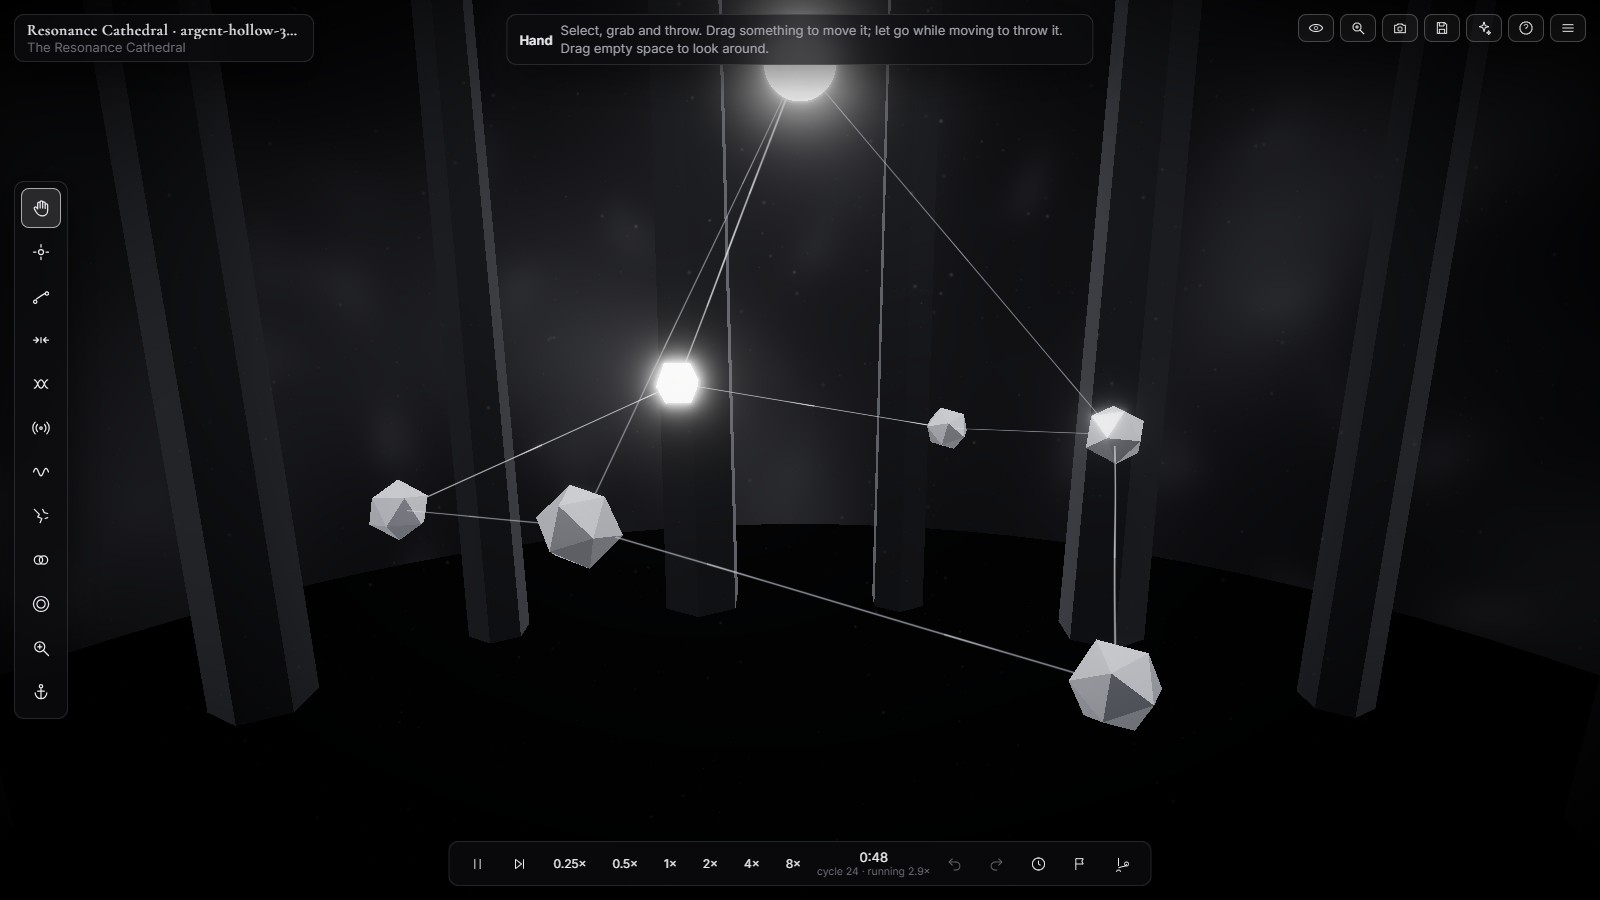
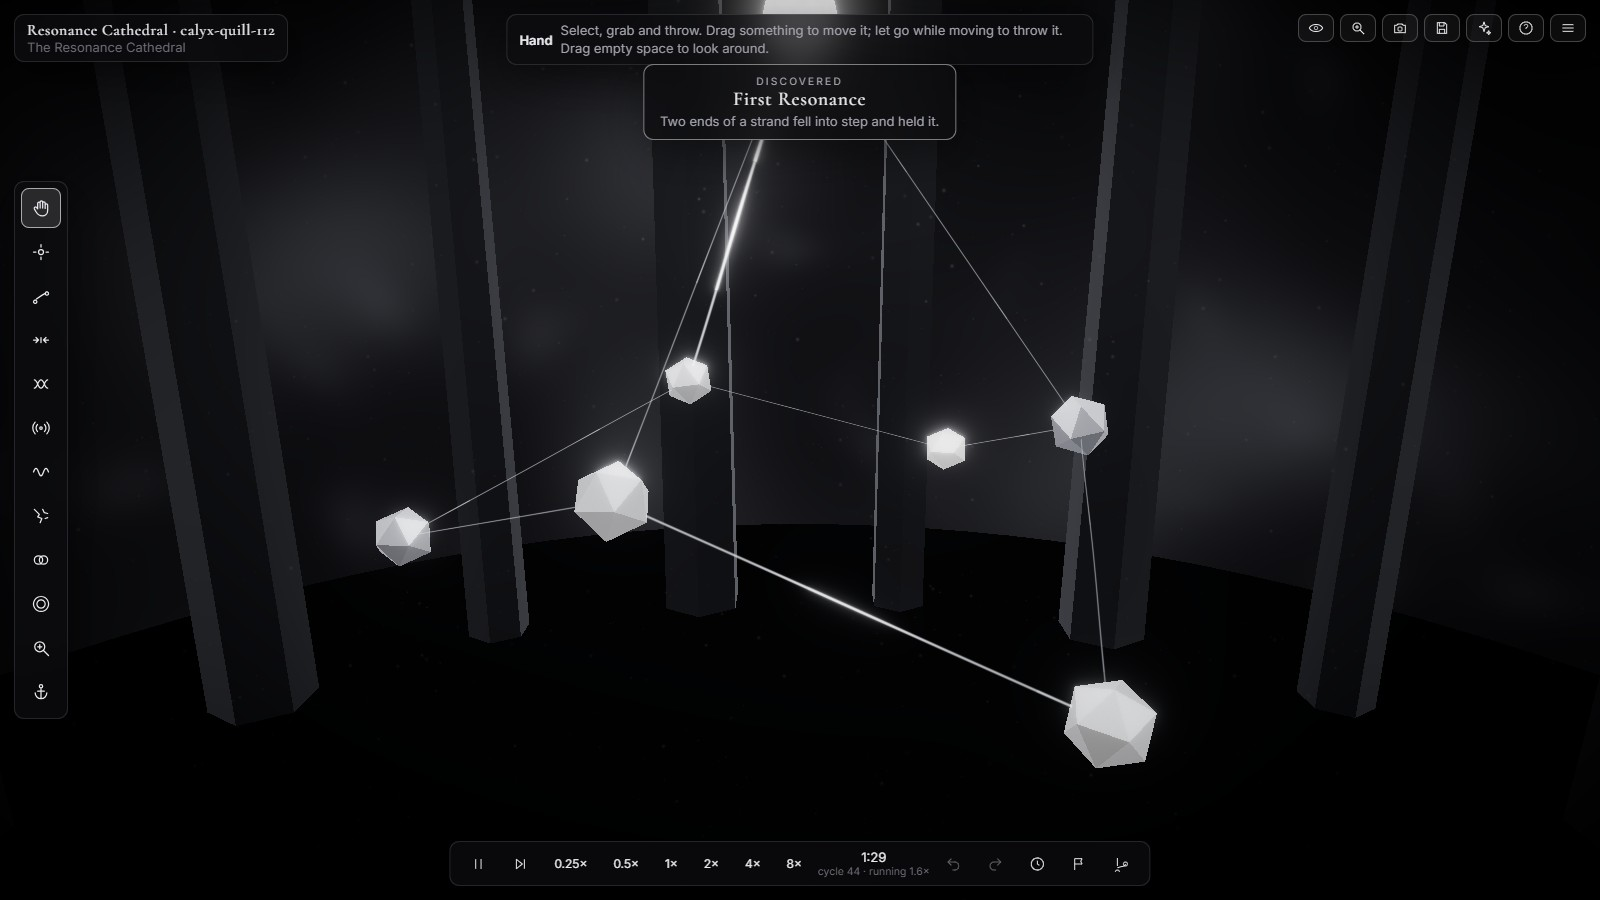
Showcase for Polaritium 1.2.1: circled buttons, clearer first puzzle

diff --git a/README.md b/README.md
@@ -12,7 +12,7 @@ The whole game asks one question: *what happens if I try this?*
 
 ## Start here: the tutorial
 
-A new player is offered a five-minute tutorial before anything else. It teaches one idea at a time in a small practice universe: look around, touch the light, move it, see the connections, tune a rhythm, send a wave, stop time, make something new, connect it, and let it run. Each step hands over only the tool it needs, waits for the player to really do it, and shows a tick when it worked. If a step takes a while, it offers an easier way and a way past. It can be left at any point and played again later.
+A new player is offered a five-minute tutorial before anything else. It teaches one idea at a time in a small practice universe: look around, touch the light, move it, see the connections, tune a rhythm, send a wave, stop time, make something new, connect it, and let it run. Each step hands over only the tool it needs, circles its button, waits for the player to really do it, shows a tick when it worked, and waits for them to click Next. If a step takes a while, it offers an easier way and a way past. It can be left at any point and played again later.
 
 ![The tutorial's first step: a light and a dark in the Void Cradle, with the tutorial card explaining what they are](screenshots/12-tutorial.jpg)
 
@@ -94,7 +94,7 @@ Every AI path is tested against a pretend Claude. No paid request has been made 
 
 ## Where it stands
 
-Version 1.2.0, 26 October 2026, which adds six calm, hypnotic music tracks that change with where you are, softens every sound effect, and adds a Music volume slider (1.1.1 made the tutorial and each puzzle explain themselves better). It installs, runs, saves and uninstalls cleanly, and passes 141 unit and integration tests, interface tests in a headless browser (including the whole tutorial played through by mouse and keyboard), 6 desktop-app tests and a 26-step installer check. Not yet checked: a real Claude request, and a first listen to the sound, which has calm music plus effects synthesized live from the simulation, so every concentration has a voice at its own rhythm.
+Version 1.2.1, 26 October 2026: the tutorial waits for you and circles the button each step is about, the first puzzle explains how it is really solved, and six calm, hypnotic music tracks play in order everywhere, with softer sound effects and a Music volume slider. It installs, runs, saves and uninstalls cleanly, and passes 140 unit and integration tests, interface tests in a headless browser (including the whole tutorial played through by mouse and keyboard), 6 desktop-app tests and a 26-step installer check. Not yet checked: a real Claude request, and a first listen to the sound, which has calm music plus effects synthesized live from the simulation, so every concentration has a voice at its own rhythm.
 
 The source code is private. This page shows what the game is and what works.
 
